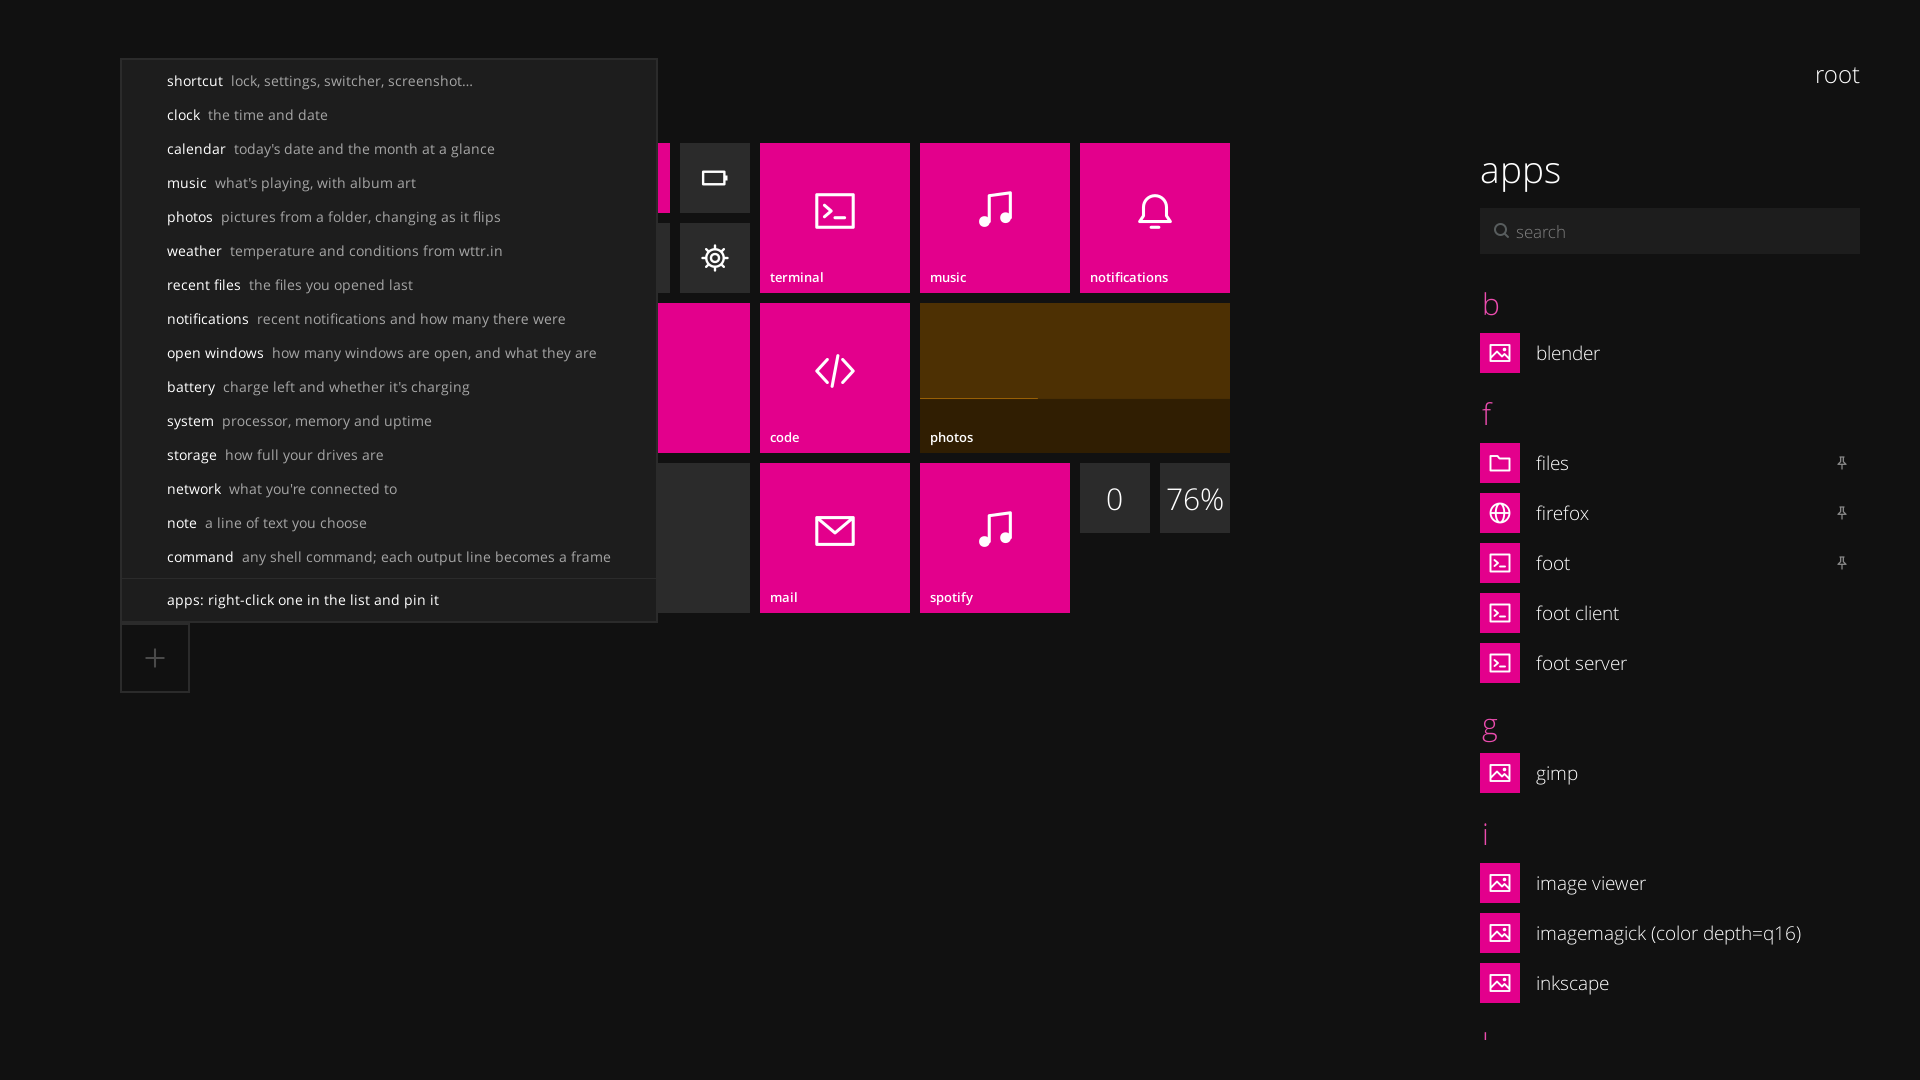
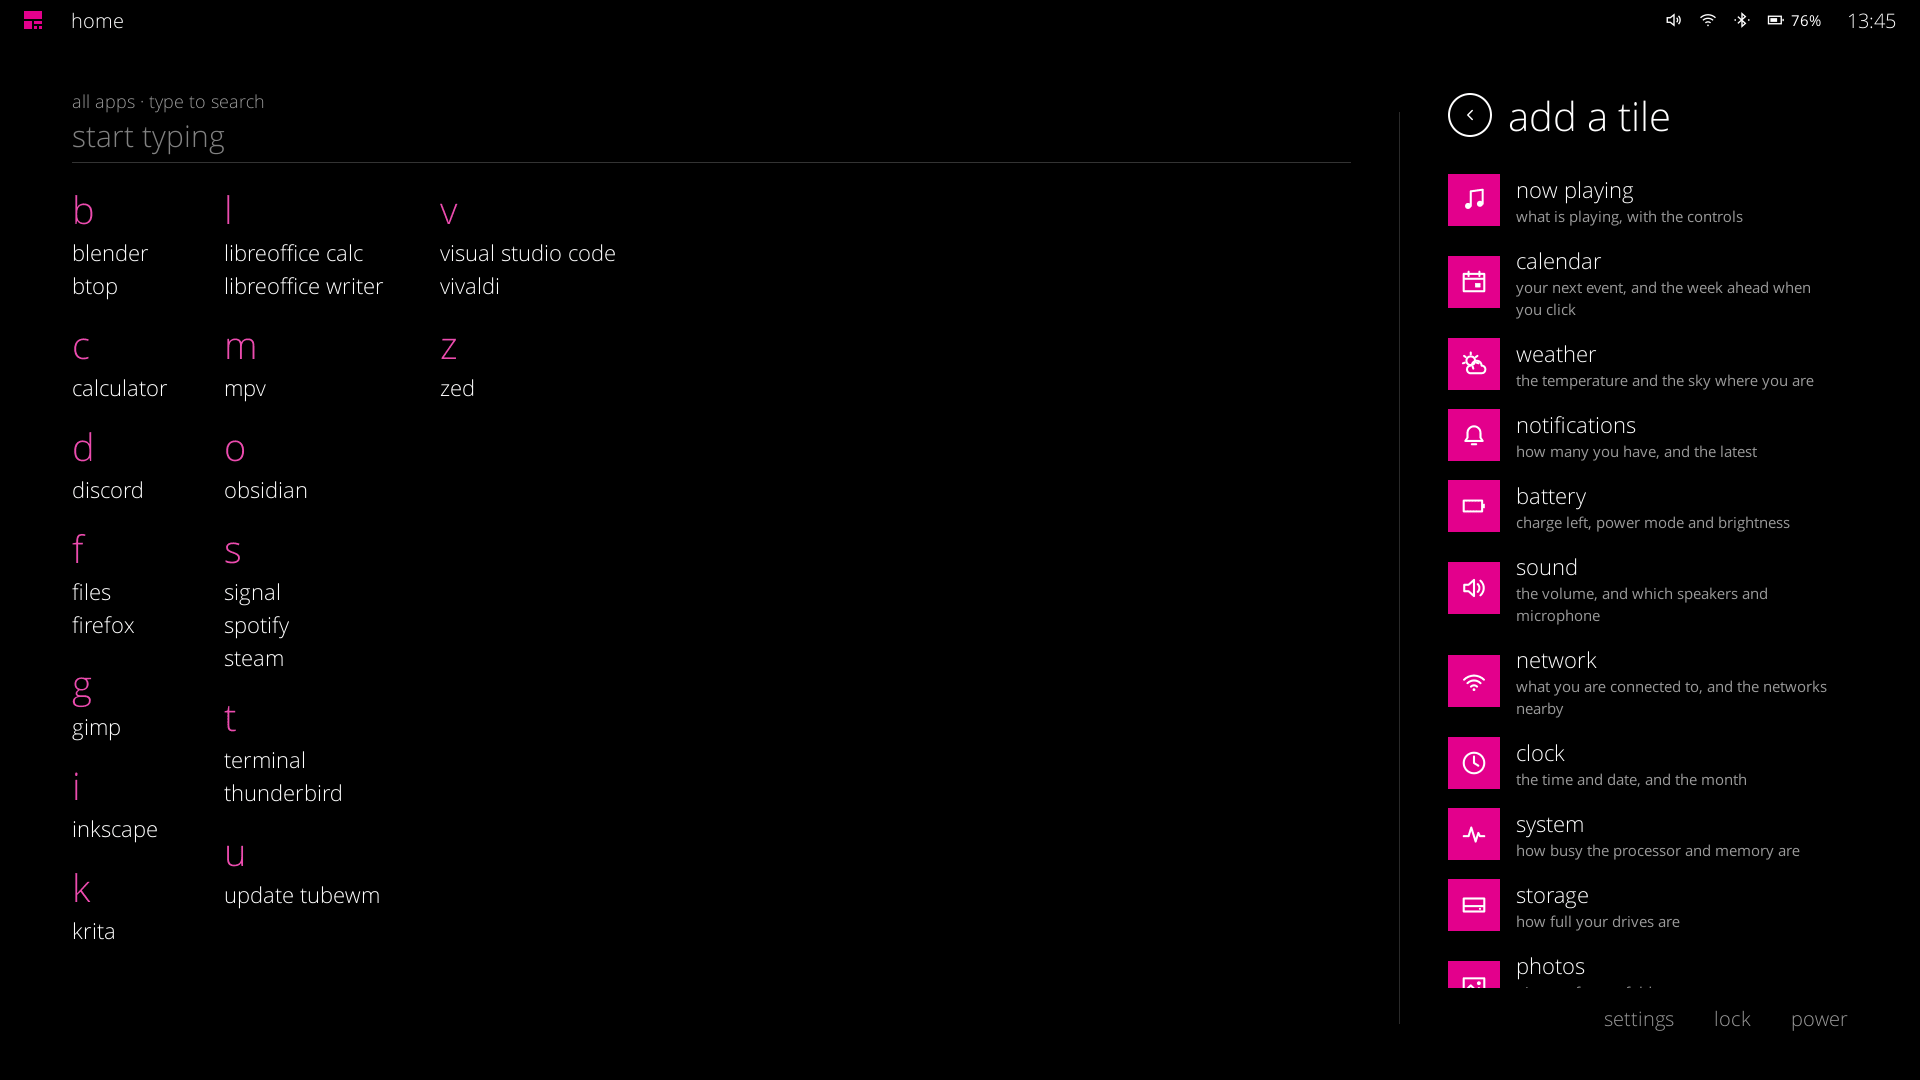
README: current copy and fresh screenshots
Bring both READMEs up to date with main: the start mark, Start staying
ready in the background, Up/Down in Start search, Now Playing controls,
the full-screen settings app, network/bluetooth/battery in the panel,
Fn keys showing the level bar, the services the installer turns on, and
the full screen and lid fixes.

New screenshots, rendered from main in a headless session with sample
apps and data: start, start search, start in cobalt, now playing, the
tile library, the panel, settings, a notification and the wallpapers.
The tile-menu, charms and orange-start pictures are gone.

Claude-Session: https://claude.ai/code/session_01FpjSgtYCPdgthDCnUypTXj

diff --git a/README.md b/README.md
@@ -5,17 +5,18 @@ big lowercase headers, solid colour tiles, every app listed a to z, and a single
 accent colour shared by the desktop and your apps. It runs on Wayfire and is
 made to be used with the mouse first; keys are extras.
 
-![tubewm start screen](desktop/docs/screenshots/start.png)
+![start: every app from a to z, and the glance of live tiles](desktop/docs/screenshots/start.png)
 
 | | |
 |---|---|
-| ![desktop with a snapped window and a toast](desktop/docs/screenshots/desktop.png) | ![the tile menu](desktop/docs/screenshots/tile-menu.png) |
-| ![charms and clock card](desktop/docs/screenshots/charms.png) | ![settings with wallpapers](desktop/docs/screenshots/settings.png) |
-| ![adding a live tile](desktop/docs/screenshots/add-tile.png) | ![start with the orange accent](desktop/docs/screenshots/start-orange.png) |
+| ![the panel under the time, with power modes open](desktop/docs/screenshots/panel.png) | ![settings, full screen on true black](desktop/docs/screenshots/settings.png) |
+| ![searching start; Down has moved to the second result](desktop/docs/screenshots/start-search.png) | ![the now playing applet with its controls](desktop/docs/screenshots/now-playing.png) |
+| ![add a tile: the live tile library](desktop/docs/screenshots/add-tile.png) | ![a notification band, on the bands wallpaper in cobalt](desktop/docs/screenshots/desktop.png) |
 
 * [`desktop/`](desktop/README.md): the desktop itself. Start with live tiles,
-  self-managing desktops, Metro title bars, the status panel, notifications,
-  a lock screen, screenshots, wallpapers and GTK styling.
+  self-managing desktops, Metro title bars, the panel under the time,
+  settings, notifications, a lock screen, screenshots, wallpapers and GTK
+  styling.
 * [`apps/`](apps/README.md): themes for VS Code, Vivaldi, Firefox, terminals,
   editors and more, all following the same accent.
 * `palette/`: the shared colour palette that every part reads from.
@@ -25,31 +26,43 @@ and artwork are drawn for this project.
 
 ## What you get
 
-* **Start.** Tap the Windows key on its own, or click the accent square in the
-  strip. Every app is listed from a to z in columns; just type and the best
-  match comes up first (Enter opens it). On the right is the glance: live
-  tiles you arrange yourself. Drag a tile to move it, drag its corner to make
-  it any size, right-click for shapes, colour, settings and remove, and pick
-  **add a tile** for the library (now playing, calendar, weather,
-  notifications, battery, sound, network, clock, system, storage, photos,
-  recent files, open windows, note, command and shortcut). Click a tile for its
-  applet: music controls, the week ahead, the sound devices and so on.
+* **Start.** Tap the Windows key on its own, or click the start mark (a
+  little cluster of tiles in your accent colour) at the left of the strip.
+  Start stays ready in the background, so it opens the moment you press the
+  key. Every app is listed from a to z in columns. Just type: the best match
+  comes up first, Up and Down move through the rest, and Enter opens the one
+  that's highlighted. On the right is the glance: live tiles you arrange
+  yourself. Drag a tile to move it, drag its corner to make it any size,
+  right-click for shapes, colour, settings and remove, and pick **add a tile**
+  for the library (now playing, calendar, weather, notifications, battery,
+  sound, network, clock, system, storage, photos, recent files, open windows,
+  note, command and shortcut). Click a tile for its applet: play, pause and
+  skip for whatever is playing, the week ahead, the sound devices and so on.
+  Settings, lock and power sit at the bottom.
 * **Windows** open filling the screen, with a thin flat title strip and a
   square Metro close button that turns red under the mouse. Drag a title to a
   side for half the screen, a corner for a quarter, or the middle to fill it.
   New windows take free space, or the desktop is retiled so nothing is
   covered. Full screen is only for when an app asks (F11, a video's button,
-  Super+F).
+  Super+F): the strip slides away and nothing else moves.
 * **Desktops look after themselves.** There is always a spare `+` at the end
   of the strip. Open something there and it becomes a desktop named after it
   (`web`, `code`, `music`…); leave one empty and it goes away. Right-click a
   name to rename, keep, move or close it.
-* **The status panel.** Sound, network and battery sit beside the time; click
-  any of them for one panel with volume and brightness, speakers and
-  microphones, wi-fi, battery, quiet hours, your last notifications, and lock,
-  sleep, sign out, restart and shut down.
+* **The panel under the time.** Sound, network, bluetooth (while it's on) and
+  battery sit beside the time; click any of them for one panel with volume
+  and brightness, speakers and microphones, network, bluetooth, battery,
+  quiet hours, your last notifications, and lock, sleep, sign out, restart
+  and shut down. Click **network** for the wi-fi networks around you, to
+  switch or join one. Click **bluetooth** to turn it on or off, connect a
+  device you've paired or pair a new one. Click **battery** to pick battery
+  saver, balanced or performance.
+* **Settings** is one app, full screen on true black: personalise (accent
+  and wallpaper), start, notifications, network and devices. `Super+I`,
+  start's settings, the settings tile and the charms all open it.
 * **Notifications** come in as a band across the top and go away after a few
-  seconds. Volume and brightness show a small bar at the bottom.
+  seconds. Volume and brightness show a small bar at the bottom, whatever
+  changed them: the panel, the Fn keys, a headset's buttons or an app.
 * **Screenshots.** `Print` (or `Super+Shift+S`) holds the screen still, dims it
   and lets you choose an area, a window or a whole screen. `Shift+Print` takes
   the whole screen straight away. Pictures are saved to
@@ -62,6 +75,8 @@ and artwork are drawn for this project.
   changed in one click. Eight wallpapers are drawn from it.
 * **A first-run welcome** to pick your colour and check your keyboard, and a
   built-in **updater** that tells you when there's something new.
+
+![the eight wallpaper styles, drawn from the accent](desktop/docs/screenshots/wallpapers.png)
 
 Desktop details, the full list of live tiles and every key are in
 [desktop/README.md](desktop/README.md) and the
@@ -92,13 +107,14 @@ What it does:
 | App themes | Themes every supported app it finds (see below), in the same colour. |
 | Packages (password) | Only the ones that are missing, including Wayfire. On Arch and CachyOS this is a full `pacman -Syu`, which is the supported way to install and also fixes "failed retrieving file" mirror errors. Supports pacman, apt, dnf and zypper. |
 | Title bars | Builds tubewm's own Wayfire plugin for the flat title strip and square close button. Until it's built, Wayfire's stock title bars stand in. |
+| Services (password) | Turns on bluetooth and power modes (`bluetooth.service`, `power-profiles-daemon`) if they're installed but off, so the panel's controls work. |
 | Keyboard (password) | Uses your layout on the sign-in screen and the text consoles too (`localectl set-x11-keymap`). |
 | Sign-in screen (password) | Adds **tubewm** to the session menu of SDDM, GDM, LightDM or greetd. |
 
 Then log out, pick **tubewm** on the sign-in screen and sign in. (No sign-in
 screen? Log in on a console and type `tubewm-session`.) The first time, a short
 welcome lets you pick your colour and check your keyboard. After that, tap the
-Windows key for start, and click the time for the status panel.
+Windows key for start, and click the time for the panel.
 
 Other ways to run it:
 
@@ -127,9 +143,11 @@ configs still ship, so `tubewm-session sway` from a console works, and
   (2 on a Framework 13 with the 2.8K screen, 1.5 on the 2256 x 1504 one).
 * **Away from the laptop**: after 4 minutes the screen dims, at 5 it locks, at
   10 it turns off.
-* **Closing the lid** locks the screen, then the laptop sleeps. Opening it
-  shows the lock screen, in your keyboard layout. With another monitor plugged
+* **Closing the lid** locks the screen before the laptop sleeps, so opening
+  it shows the lock screen, in your keyboard layout, and never your desktop. With another monitor plugged
   in, closing the lid just turns the laptop screen off.
+* **The Fn keys** for volume and brightness show the level bar, and the
+  panel and the strip follow them.
 * **The power button** opens the power choices (sleep, sign out, restart, shut
   down) instead of switching off straight away. Holding it still forces power
   off.
@@ -232,7 +250,7 @@ copy if that folder is gone), and your colour, tiles and settings stay as they
 are.
 
 Once a day, a quiet notification tells you when there's something new, and
-the status panel shows a **tubewm** row with the number of updates.
+the panel under the time shows a **tubewm** row with the number of updates.
 
 If you've edited files in the tubewm folder yourself, they're set aside with
 `git stash` first and the update tells you so. If you've made commits of your
@@ -278,8 +296,9 @@ keyboard layout on the sign-in screen is left as it is.
   `sudo libinput measure touchpad-pressure` (from `libinput-tools`), then put
   the values they suggest in `/etc/libinput/local-overrides.quirks`, as
   described in the libinput "Device quirks" documentation.
-* **Start doesn't open:** run `~/.local/bin/tube-start` from a terminal
-  (`Super+Return`) to see the error. A missing GtkLayerShell or Open Sans is
+* **Start doesn't open:** run `pkill -f tube-start`, then
+  `~/.local/bin/tube-start` from a terminal (`Super+Return`) to see the
+  error. A missing GtkLayerShell or Open Sans is
   the usual cause.
 * **Stuck with no way out:** `Super+Return` opens a terminal and
   `Super+Shift+E` has sign out. From any text console (`Ctrl+Alt+F3`),

diff --git a/desktop/README.md b/desktop/README.md
@@ -1,19 +1,18 @@
 # tubewm desktop
 
-A Sway desktop that borrows the *ideas* of Metro and the Zune player (big
-lowercase type, pivots, flat colour tiles, one accent colour, content over
-chrome) with its own glyphs, the open Open Sans font, and no borrowed
-artwork.
+A Wayland desktop for Wayfire (and Sway) that borrows the *ideas* of Metro
+and the Zune player (big lowercase type, pivots, flat colour tiles, one
+accent colour, content over chrome) with its own glyphs, the open Open Sans
+font, and no borrowed artwork.
 
-![start screen](docs/screenshots/start.png)
+![start: every app from a to z, and the glance of live tiles](docs/screenshots/start.png)
 
 | | |
 |---|---|
-| ![desktop with a snapped window and a toast](docs/screenshots/desktop.png) | ![the tile menu](docs/screenshots/tile-menu.png) |
-| ![charms and clock card](docs/screenshots/charms.png) | ![settings, full screen on black](docs/screenshots/settings.png) |
-| ![adding a live tile](docs/screenshots/add-tile.png) | ![start with the orange accent](docs/screenshots/start-orange.png) |
-
-![the eight wallpaper styles](docs/screenshots/wallpapers.png)
+| ![the panel under the time, with power modes open](docs/screenshots/panel.png) | ![settings, full screen on true black](docs/screenshots/settings.png) |
+| ![searching start; Down has moved to the second result](docs/screenshots/start-search.png) | ![the now playing applet with its controls](docs/screenshots/now-playing.png) |
+| ![add a tile: the live tile library](docs/screenshots/add-tile.png) | ![start in cobalt, searching](docs/screenshots/start-cobalt.png) |
+| ![a notification band on the bands wallpaper](docs/screenshots/desktop.png) | ![the eight wallpaper styles](docs/screenshots/wallpapers.png) |
 
 ## What's in it
 
@@ -27,7 +26,7 @@ artwork.
 | **Snap** | Dock the focused window as a 320 px column at either edge, press again for 500 px, then half. | `tube-snap` |
 | **Switcher** | Every open window on every workspace in one flat list. | `tube-switcher` (fuzzel) |
 | **Toasts** | Plain charcoal cards, top right under the bar: the app's icon, a title and the message. Click one to open the app. | mako |
-| **Volume and brightness** | A small bar at the bottom centre (glyph, level, number) that fades after 1.5 s. Clicks go through it. Scrolling on the bar's volume moves in small steps and ignores touchpad bursts. | `tube-osd` |
+| **Volume and brightness** | A small bar at the bottom centre (glyph, level, number) that fades after 1.5 s, whatever changed the level (the Fn keys, a headset, an app). Clicks go through it. Scrolling on the bar's volume moves in small steps and ignores touchpad bursts. | `tube-osd` |
 | **Lock** | A big clock and the date. Any key or click brings up your name, the password box and your keyboard layout (e.g. English (UK)). gtklock 4 or later gets the full layout, older gtklock the same colours, and swaylock(-effects) is the fallback. | `tube-lock` |
 | **Apps** | GTK 3/4 squared off and accent-coloured, foot terminal on a full-bleed black canvas, no title-bar buttons. | gtk.css, gsettings, foot |
 | **Accent** | One command recolours everything above, plus any hooks in `~/.config/tubewm/accent.d/` (the VS Code and Vivaldi themes in `apps/` use this). | `tube-accent` |
@@ -72,8 +71,8 @@ day to day. Everything is a click away; keys are extras.
   to turn it on or off, connect a device you've paired or pair a new one
   (a headset shows up under output once it connects); battery to pick
   battery saver, balanced or performance.
-* **Start**: tap the Windows key on its own, or click the accent square.
-  It opens on every app from a to z in columns, nothing cut off. Just type:
+* **Start**: tap the Windows key on its own, or click the start mark.
+  It stays ready in the background, so it opens at once. It opens on every app from a to z in columns, nothing cut off. Just type:
   the list slides away and the best match comes up first (Enter opens it),
   apps before web apps. Up and Down move through the results. On the right, always: the glance, live tiles you
   arrange yourself. Drag one to move it, drag its corner to make it any
